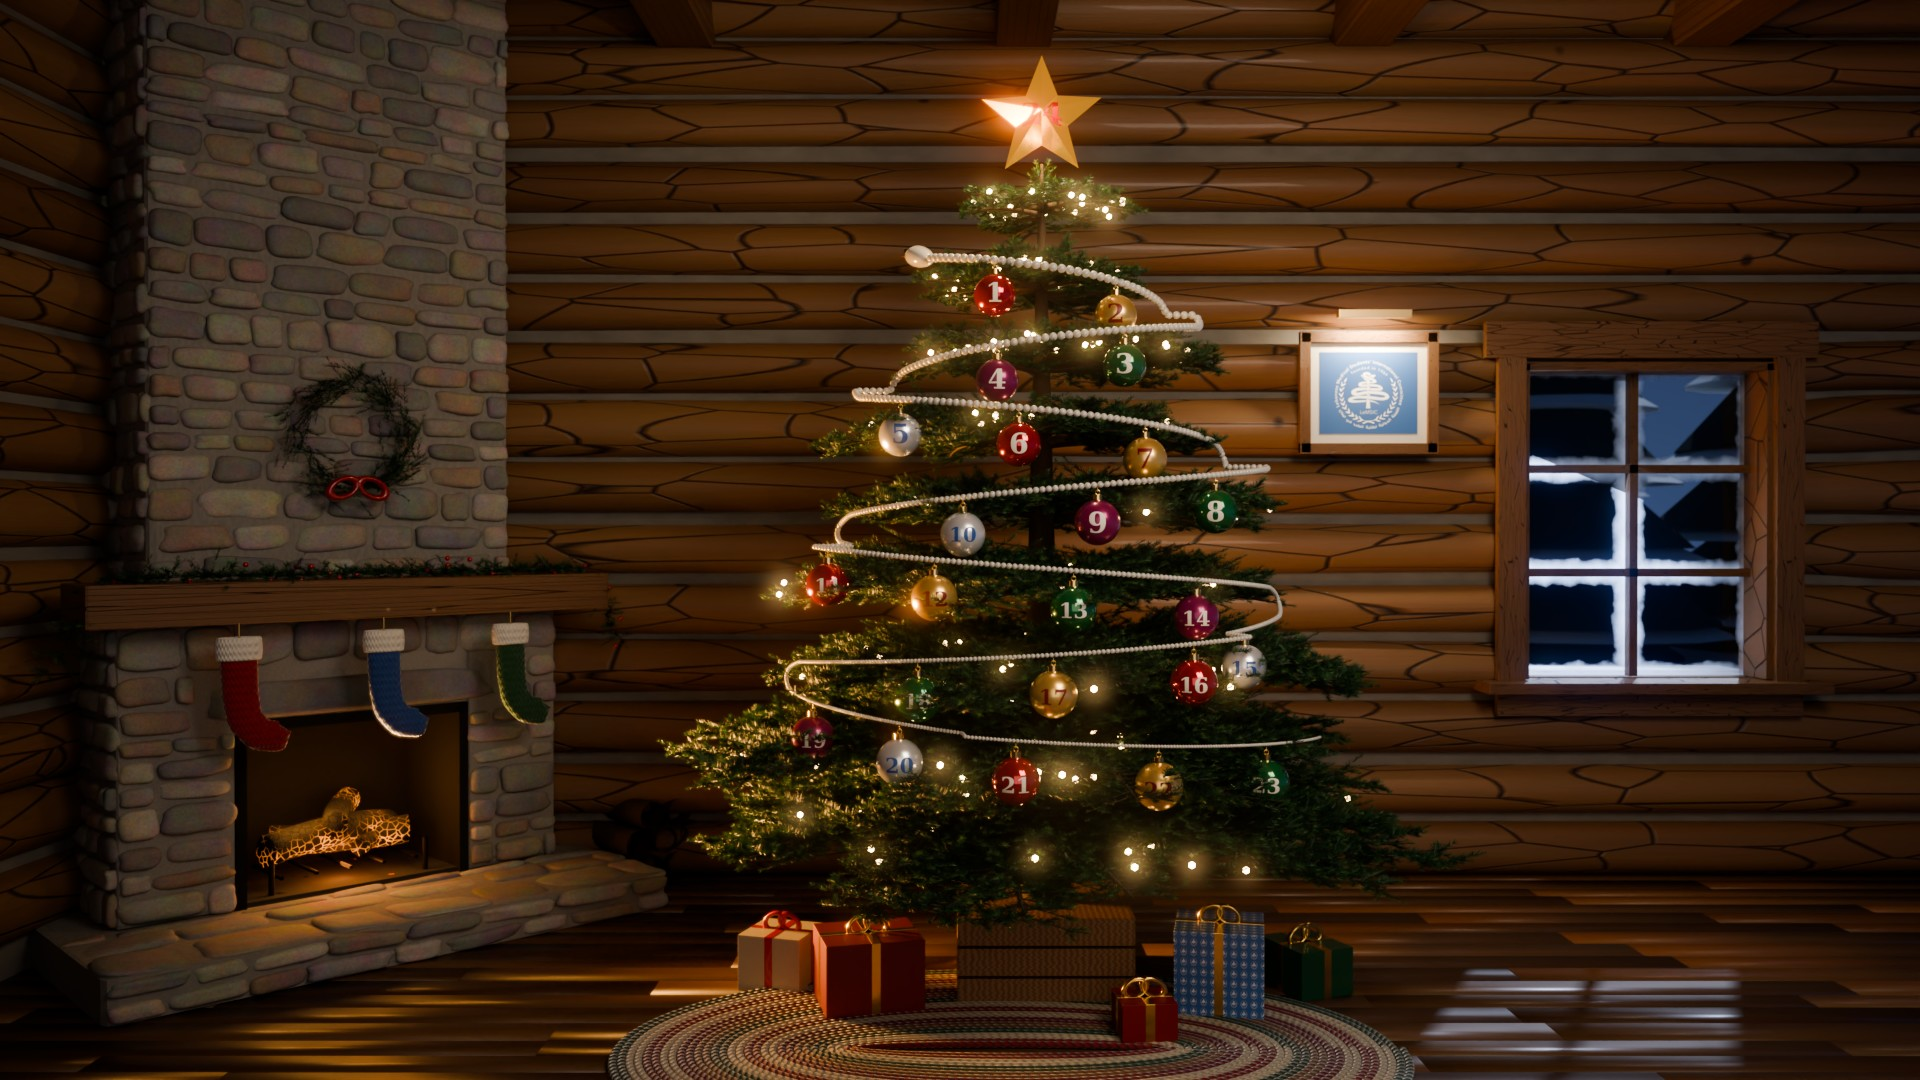
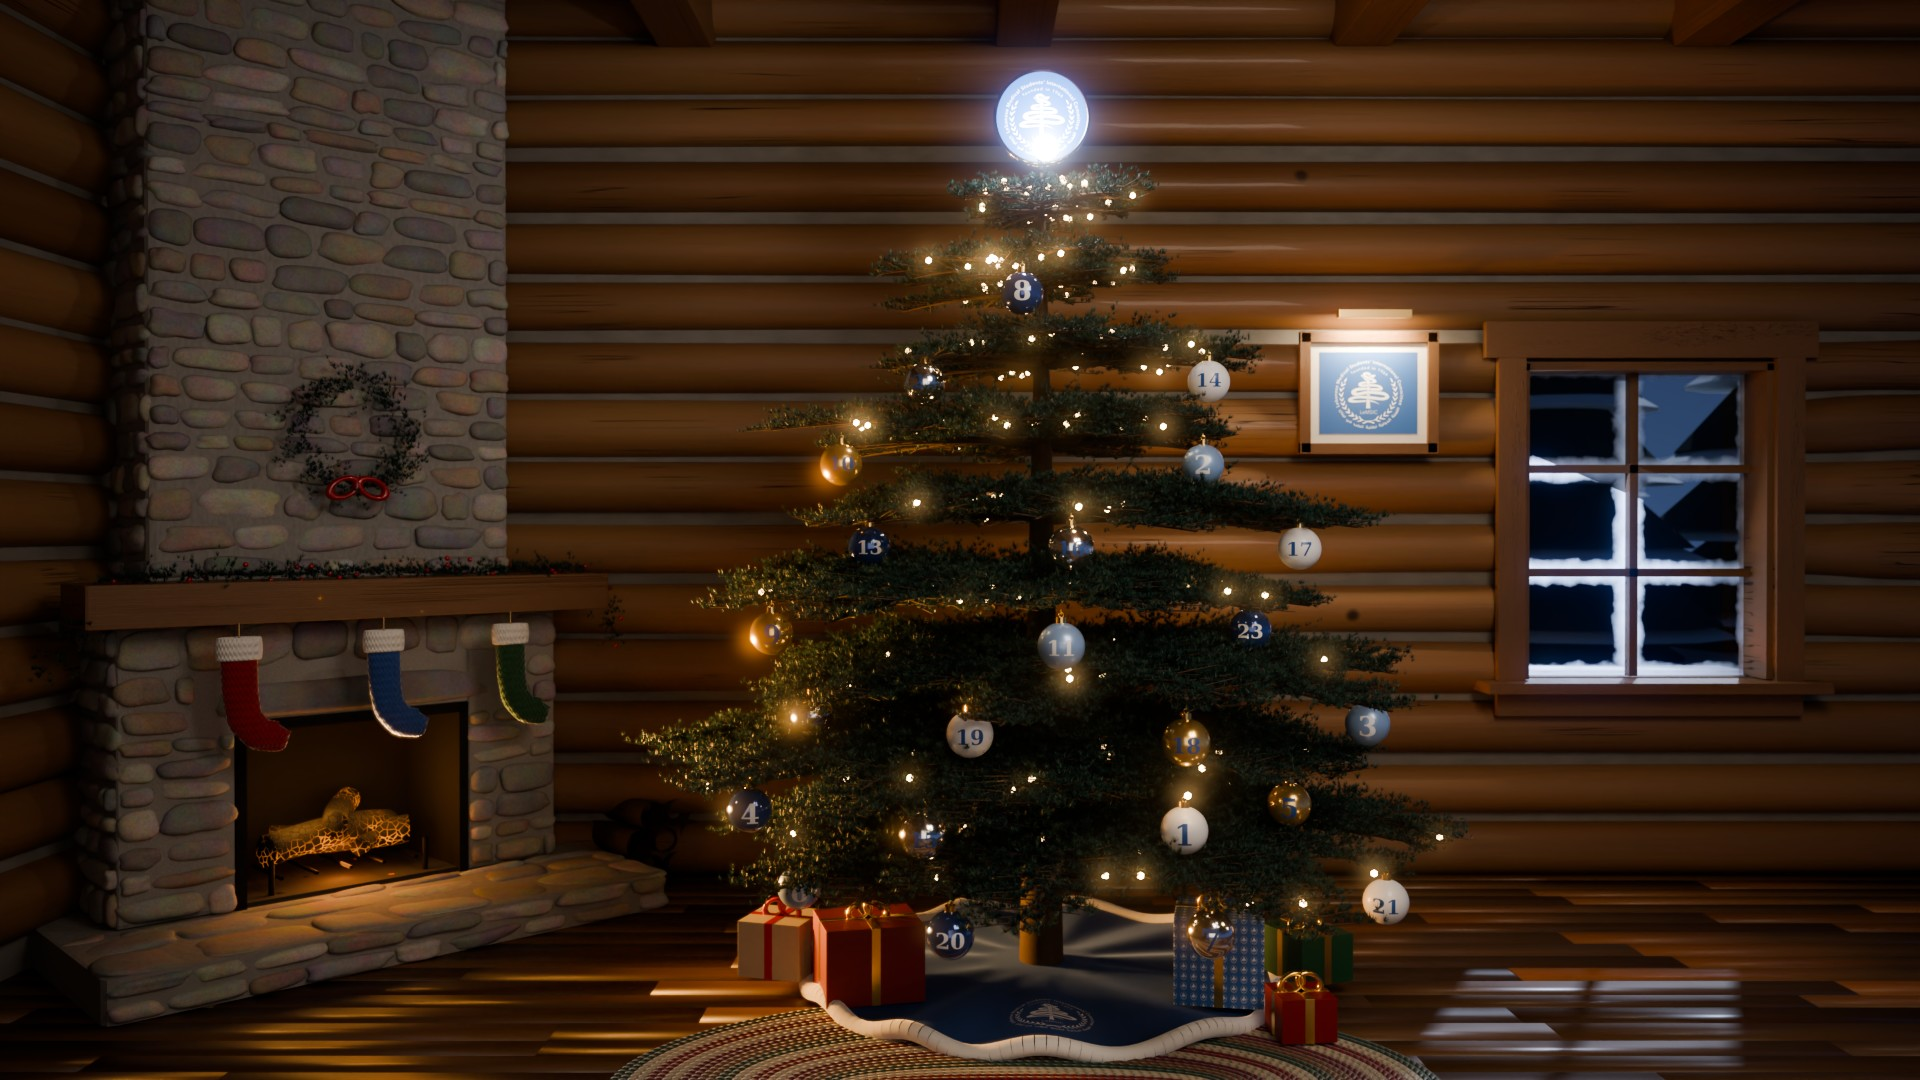
Add the final cabin render with the LeMSIC cedar
Claude-Session: https://claude.ai/code/session_012bK2P6QpfNvDCKtVhFALLP

diff --git a/site/assets/cabin/scene.js b/site/assets/cabin/scene.js
@@ -1,1 +1,1 @@
-window.CABIN_SCENE = {"width": 960, "height": 540, "note": "all positions are fractions of the image width/height, y from the top", "fire": {"opening": [[0.1232, 0.8438], [0.244, 0.8059], [0.2438, 0.6502], [0.1228, 0.6694]], "bed": [[0.1308, 0.7824], [0.2148, 0.7605]], "back": [[0.0992, 0.821], [0.2154, 0.7876], [0.2152, 0.6409], [0.0988, 0.6578]]}, "window": [[0.7858, 0.6261], [0.9152, 0.6261], [0.9158, 0.3382], [0.7862, 0.3382]], "ornaments": [{"day": 1, "x": 0.6243, "y": 0.7719, "r": 0.0124}, {"day": 2, "x": 0.6243, "y": 0.4302, "r": 0.0108}, {"day": 3, "x": 0.6986, "y": 0.6686, "r": 0.0115}, {"day": 4, "x": 0.3836, "y": 0.7436, "r": 0.0114}, {"day": 5, "x": 0.6786, "y": 0.7456, "r": 0.0113}, {"day": 6, "x": 0.4122, "y": 0.8193, "r": 0.0112}, {"day": 7, "x": 0.6281, "y": 0.876, "r": 0.0131}, {"day": 8, "x": 0.5346, "y": 0.2718, "r": 0.0112}, {"day": 9, "x": 0.4049, "y": 0.5883, "r": 0.0114}, {"day": 10, "x": 0.4405, "y": 0.4295, "r": 0.0109}, {"day": 11, "x": 0.5468, "y": 0.5971, "r": 0.0124}, {"day": 12, "x": 0.4289, "y": 0.664, "r": 0.0112}, {"day": 13, "x": 0.4475, "y": 0.5077, "r": 0.0109}, {"day": 14, "x": 0.635, "y": 0.3545, "r": 0.0109}, {"day": 15, "x": 0.4892, "y": 0.7828, "r": 0.0129}, {"day": 16, "x": 0.541, "y": 0.5073, "r": 0.012}, {"day": 17, "x": 0.6798, "y": 0.5084, "r": 0.0111}, {"day": 18, "x": 0.6179, "y": 0.6872, "r": 0.0126}, {"day": 19, "x": 0.5009, "y": 0.683, "r": 0.0124}, {"day": 20, "x": 0.489, "y": 0.8651, "r": 0.0126}, {"day": 21, "x": 0.7382, "y": 0.8316, "r": 0.0115}, {"day": 22, "x": 0.4784, "y": 0.3562, "r": 0.0106}, {"day": 23, "x": 0.6517, "y": 0.5841, "r": 0.011}, {"day": 24, "x": 0.5425, "y": 0.1092, "r": 0.0327}]};
+window.CABIN_SCENE = {"width": 1920, "height": 1080, "note": "all positions are fractions of the image width/height, y from the top", "fire": {"opening": [[0.1232, 0.8438], [0.244, 0.8059], [0.2438, 0.6502], [0.1228, 0.6694]], "bed": [[0.1308, 0.7824], [0.2148, 0.7605]], "back": [[0.0992, 0.821], [0.2154, 0.7876], [0.2152, 0.6409], [0.0988, 0.6578]]}, "window": [[0.7858, 0.6261], [0.9152, 0.6261], [0.9158, 0.3382], [0.7862, 0.3382]], "ornaments": [{"day": 1, "x": 0.6168, "y": 0.7689, "r": 0.0124}, {"day": 2, "x": 0.6266, "y": 0.4307, "r": 0.0108}, {"day": 3, "x": 0.7123, "y": 0.67, "r": 0.0114}, {"day": 4, "x": 0.3906, "y": 0.75, "r": 0.0116}, {"day": 5, "x": 0.6715, "y": 0.7449, "r": 0.0114}, {"day": 6, "x": 0.4163, "y": 0.8216, "r": 0.0113}, {"day": 7, "x": 0.6305, "y": 0.8647, "r": 0.0128}, {"day": 8, "x": 0.5324, "y": 0.2716, "r": 0.0112}, {"day": 9, "x": 0.4019, "y": 0.5863, "r": 0.0113}, {"day": 10, "x": 0.4382, "y": 0.43, "r": 0.011}, {"day": 11, "x": 0.5527, "y": 0.5983, "r": 0.0125}, {"day": 12, "x": 0.423, "y": 0.6621, "r": 0.0111}, {"day": 13, "x": 0.4528, "y": 0.5065, "r": 0.011}, {"day": 14, "x": 0.6295, "y": 0.3535, "r": 0.0109}, {"day": 15, "x": 0.481, "y": 0.7735, "r": 0.0127}, {"day": 16, "x": 0.5579, "y": 0.5077, "r": 0.012}, {"day": 17, "x": 0.6768, "y": 0.5079, "r": 0.0111}, {"day": 18, "x": 0.6177, "y": 0.6875, "r": 0.0127}, {"day": 19, "x": 0.5052, "y": 0.6799, "r": 0.0123}, {"day": 20, "x": 0.4949, "y": 0.8656, "r": 0.0127}, {"day": 21, "x": 0.7219, "y": 0.8347, "r": 0.0117}, {"day": 22, "x": 0.4816, "y": 0.355, "r": 0.0107}, {"day": 23, "x": 0.6512, "y": 0.5833, "r": 0.011}, {"day": 24, "x": 0.5425, "y": 0.1092, "r": 0.0327}]};
